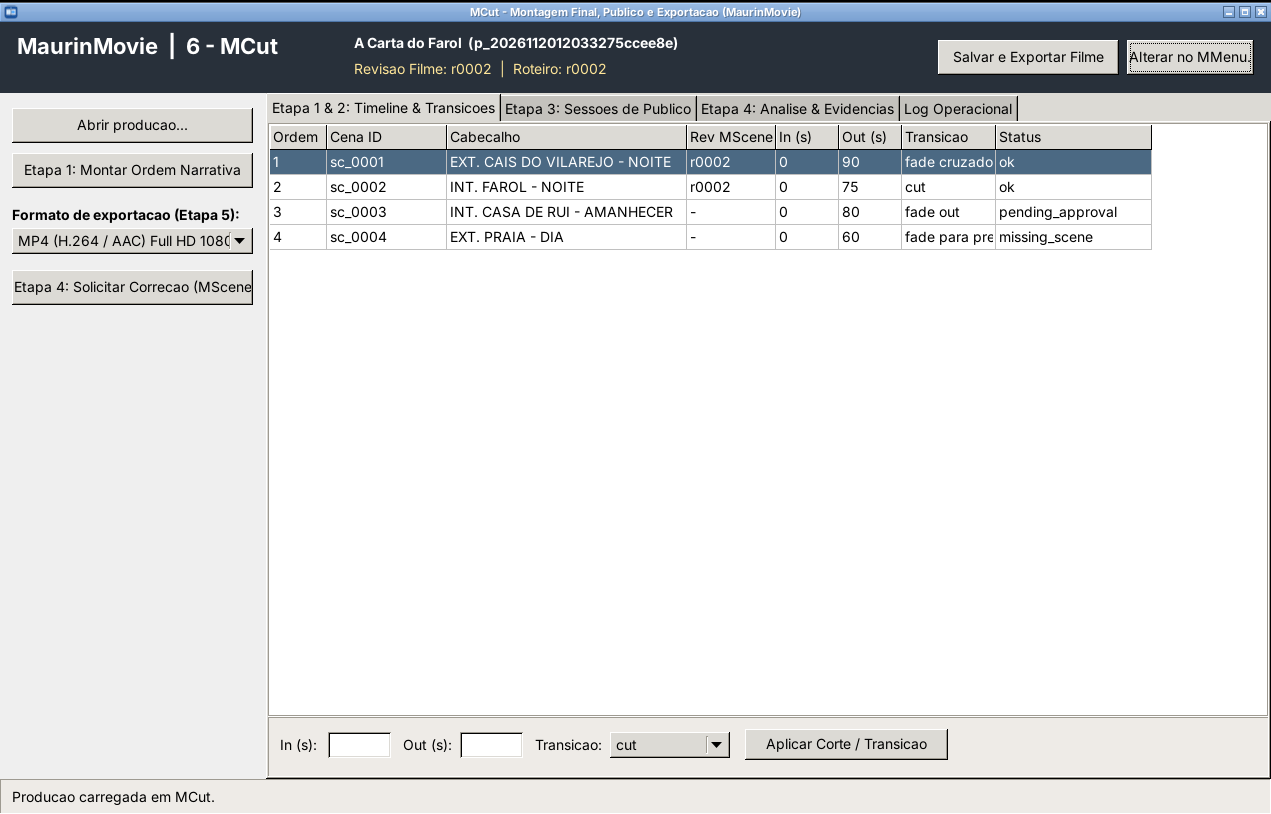
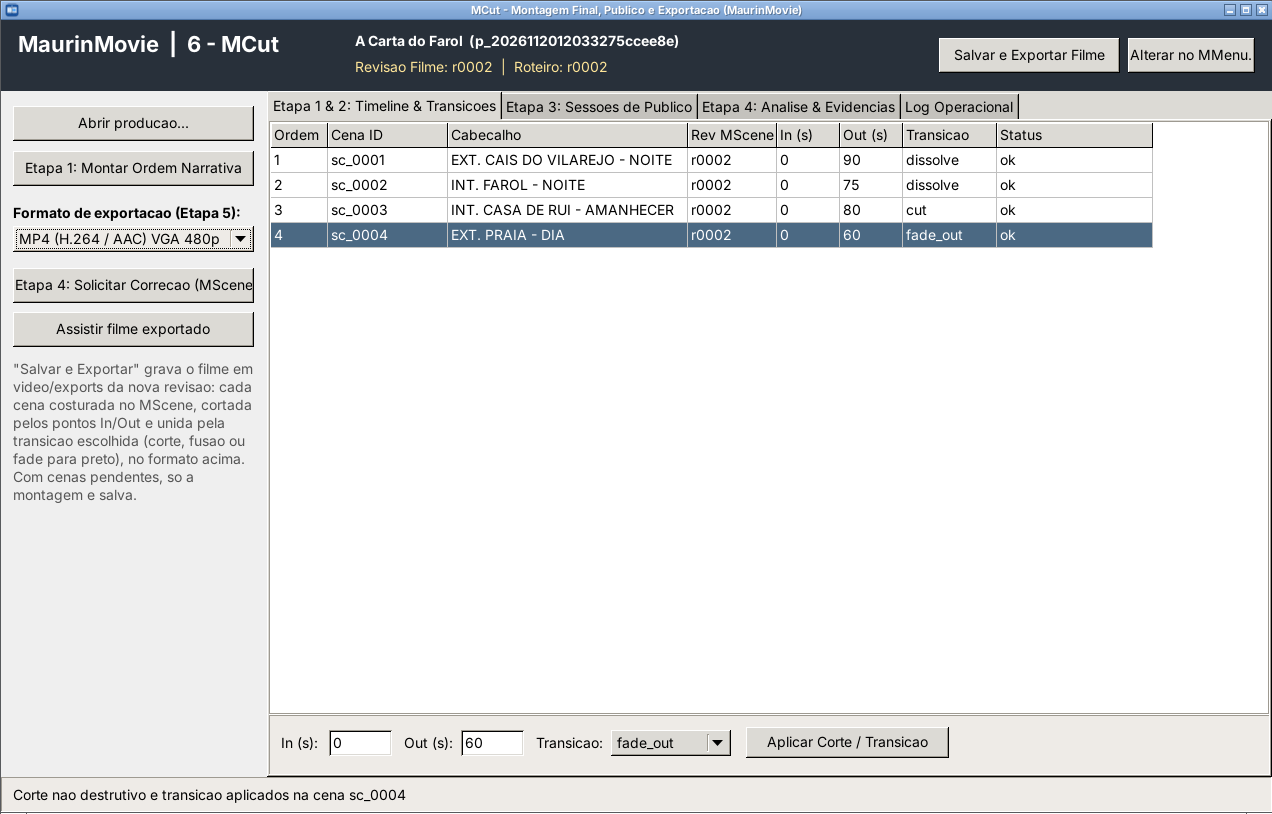
Documentacao, testes e instalador para video e cascata
- Manuais do MMenu, MVisual, MBoard, MScene e MCut com as novas telas
  (video por segmento, costura, filme gravado, cascata e retomada)
- MMenu: Retomar transacao mostra o ultimo erro registrado e atualiza a
  tela sem repetir o alerta de integridade; botoes da barra cabem na aba
- 99-lacunas: C-15 resolvida; L-11 e L-14 atualizadas
- build_release.ps1 compila e executa tests/common/test_mmp_media.pas;
  install/README explica a dependencia do ffmpeg

Claude-Session: https://claude.ai/code/session_017tPzUg1j1urr1UyVyBUqfv

Changed region(s): [[0.0, 0.0, 1.0, 0.6143], [0.0, 0.8907, 1.0, 1.0], [0.0, 0.0921, 0.0307, 0.1229]]

diff --git a/docs/specs/99-lacunas.md b/docs/specs/99-lacunas.md
@@ -16,10 +16,10 @@ Legenda de impacto: **Alto** = bloqueia ou muda a arquitetura; **Médio** = afet
 | L-08 | Alto | docs/05 limita a cascata a MScript → MVisual → MBoard, mas docs/11 §6 descreve o grafo inteiro até o MCut | Nesta versão a cascata automática vai até o MBoard; MSound, MScene e MCut recebem **aviso de desatualização** (pendência no MMenu, `scene.sources_changed` no MScene) sem regeneração automática de áudio/vídeo (custo) | Se áudio e vídeo devem ser regenerados automaticamente |
 | L-09 | Alto | Motores de IA não escolhidos; API real da biblioteca CHATGPT não verificada | Interfaces de adaptador em `mmpai.pas` + provedor simulado obrigatório + adaptador HTTP "compatível com OpenAI" para texto ([00-comum §9](00-comum.md#9-provedores-de-ia)) | Provedores reais de texto, imagem, voz, efeitos e vídeo; o que a biblioteca CHATGPT já oferece |
 | L-10 | Médio | docs/06: IA B só sintetiza voz; não diz quem gera **efeitos sonoros** | Provedor `sfx` separado (aba IA Som — Efeitos no MMenu) e pasta de banco de efeitos licenciados | Origem dos efeitos: gerados por IA, banco licenciado, ou ambos |
-| L-11 | Alto | Nenhum app produz o **áudio final** do filme: MSound faz só prévias, MScene usa áudio-guia, MCut "renderiza com som". Trilha musical não aparece em nenhum documento | MScene usa o áudio do vídeo gerado ou o áudio-guia; MCut só faz crossfade entre cenas | Se haverá etapa de mixagem final e música (novo app ou etapa no MCut/MSound) |
+| L-11 | Alto | Nenhum app produz o **áudio final** do filme: MSound faz só prévias, MScene usa áudio-guia, MCut "renderiza com som". Trilha musical não aparece em nenhum documento | MScene monta o áudio de cada segmento (falas sintetizadas ou amostras do MSound + ambiência do local); MCut leva esse áudio ao filme com crossfade nas fusões e fade no fim | Se haverá etapa de mixagem final e música (novo app ou etapa no MCut/MSound) |
 | L-12 | Médio | Sessões de público com "convite" e "controle de acesso" sugerem participação remota, mas os apps são desktop | Modo exibição local no MCut (participante assiste e avalia na máquina do operador) | Necessidade de participação remota (web/formulário externo) |
 | L-13 | Médio | Política de privacidade e retenção dos dados dos avaliadores (LGPD) a definir (docs/08) | Dados pessoais em arquivo separado, fora das exportações por padrão; anonimato configurável | Prazo de retenção, termo de consentimento, quem acessa |
-| L-14 | Médio | Mecanismo de reprodução, timeline e render não definido | `ffmpeg`/`ffprobe` externos + `mpv` embutido (`--wid`) | Licenças (ffmpeg LGPL/GPL), empacotamento no instalador; alternativa PasLibVlc |
+| L-14 | Médio | Mecanismo de reprodução, timeline e render não definido | Implementado com `ffmpeg`/`ffprobe` externos (`src/common/ummpmedia.pas`): animática e costura no MScene, gravação do filme no MCut. Reprodução no `mpv` configurado ou no programa padrão, ainda fora da janela | Licenças (ffmpeg LGPL/GPL) e se o instalador deve incluir o ffmpeg; `mpv` embutido (`--wid`) ou PasLibVlc |
 | L-15 | Baixo | SHA-256 exigido (docs/11), mas não há garantia de unidade na FPC 3.2.2 instalada | Verificar `fpsha256`/fcl-hash; senão HashLib4Pascal ou DCPcrypt | Biblioteca escolhida |
 | L-16 | Médio | Sistemas operacionais, CPU, GPU, RAM, processamento local × remoto (docs/10) | Linux e Windows; IA via adaptadores (local ou remota) | Requisitos mínimos |
 | L-17 | Médio | Conflitos de edição simultânea (docs/04 "Pendências adicionais") | Lock por projeto `.lock` + leitura livre de revisões publicadas ([00-comum §7.4](00-comum.md#74-lock-de-projeto)) | Uso multiusuário em rede |
@@ -51,7 +51,7 @@ Legenda de impacto: **Alto** = bloqueia ou muda a arquitetura; **Médio** = afet
 | C-12 | MScript | `character_id` mudava a cada extração e objetos entravam no mapa de personagens (o MSound criava voz para objetos) | Resolvida |
 | C-13 | MScript headless | Evento sem `event_id` era dado como "já aplicado"; campo `dialogue` não casava com `dialogue_text`; `replace_entity` e eventos sem operações publicavam revisão sem mudança; fonte desatualizada não era verificada | Resolvida |
 | C-14 | MVisual, MBoard, MSound | "Publicar" gravava `approved` mesmo com itens não aprovados | Resolvida: `published` até todos serem aprovados |
-| C-15 | Cascata | Nenhum programa processava os eventos; o evento do MBoard não tinha operações | Parcial: o MBoard gera `script.patch` e executa o MScript headless; estágios MVisual/MBoard continuam manuais |
+| C-15 | Cascata | Nenhum programa processava os eventos; o evento do MBoard não tinha operações | Resolvida (20/11/2026): a cascata do MBoard roda MScript → MVisual (headless, `source.update`) → MBoard até `complete`; `mboard --headless --resume-transaction` e o botão Retomar do MMenu continuam do estágio parado; o MScene atende os pedidos de correção do MCut ao salvar a cena. MSound e o MScene em cascata automática seguem fora (L-08) |
 | C-17 | Telas montadas em código | Controles ancorados à direita/abaixo saíam da janela (botões do cabeçalho e das abas invisíveis no GTK2) e o `&` das abas virava atalho ("Sinopse _IA") | Resolvida: `MmpPrepareAligned`/`MmpPrepareTabSheet` e `&&` nos títulos |
 | C-16 | Executáveis LCL no Linux | GTK2 exige display até em `--version`/`--headless` | Aberta: usar `xvfb-run` ou separar um executável sem LCL para o modo headless |
 

diff --git a/docs/manual/05-mscene.md b/docs/manual/05-mscene.md
@@ -10,22 +10,37 @@ Gera o vídeo de **uma cena por vez**, a partir do storyboard e dos bancos visua
 
 | Elemento | Uso |
 |---|---|
-| **Cena ativa (uma por vez)** | Escolhe a cena do roteiro. Cada cena tem projeto próprio em `projects/05-mscene/scenes/<scene_id>/`, criado na primeira abertura |
-| **Etapa 1: Gerar Sub-blocos da Cena** | Gera a descrição de cada segmento definido no MBoard e uma prévia da cena (vídeo pela IA de vídeo ou FFmpeg, quando disponível). Só a cena selecionada é processada |
-| **Etapa 2a: Aprovar Sub-bloco** | Aprova o segmento selecionado |
-| **Etapa 2b: Costurar Cena Única** | Registra a ordem dos segmentos aprovados como a cena montada |
-| **Etapa 3: Ligação entre cenas** | **Aprovar Ligação Anterior** e **Validar Ligação Próxima**. Se a próxima cena ainda não existir, a ligação fica **pendente**, nunca aprovada por suposição |
+| **Cena ativa (uma por vez)** | Escolhe a cena do roteiro. Cada cena tem projeto próprio em `projects/05-mscene/scenes/<scene_id>/`, criado na primeira abertura. Ao voltar a uma cena, os vídeos, aprovações e a cena costurada já salvos (no rascunho ou na revisão ativa) são retomados |
+| **Etapa 1: Gerar Sub-blocos da Cena** | Gera o vídeo de cada segmento definido no MBoard (detalhes abaixo). Só a cena selecionada é processada |
+| **Etapa 2a: Aprovar** · **Assistir** | Aprova o segmento selecionado; **Assistir** (ou duplo clique na grade) abre o vídeo do segmento no reprodutor |
+| **Etapa 2b: Costurar** · **Assistir** | Junta os vídeos dos segmentos, na ordem, em `video/assembled/<cena>.mp4` e mostra um quadro da cena. Se algum segmento não estiver aprovado, pede confirmação |
+| **Etapa 3: Ligação entre cenas** | **Aprovar Anterior** e **Validar Próxima**; **Ver** monta os últimos 4 s de uma cena e os primeiros 4 s da outra num vídeo curto (`video/previews/`) para conferir a passagem. Se a próxima cena ainda não existir, a ligação fica **pendente**, nunca aprovada por suposição |
+| Pedidos de correção do MCut | Quando o MCut pede correção de uma cena, o pedido aparece em laranja no painel. **Salvar Cena** dessa cena registra o atendimento: o evento vai para `shared/events/archive` e a transação fica concluída |
+
+![Pedido de correção](imagens/mscene-pedido-correcao.png)
+
+## Como o vídeo de cada segmento é feito
+
+1. **Falas:** cada linha `Nome: fala` do segmento vira áudio. Com um provedor de voz real configurado no MMenu, a fala é sintetizada; sem ele, entra a amostra de voz do personagem gravada no MSound, como voz-guia.
+2. **Ambiência:** o efeito do MSound ligado à cena (pela linha do tempo do MSound ou pelo local da cena no índice do MVisual), em volume baixo e repetido até o fim.
+3. **Áudio do segmento:** falas em sequência, com pausas curtas, sobre a ambiência. A duração é a do MBoard ou, se as falas forem mais longas, a das falas.
+4. **Imagem:**
+   - com uma IA de vídeo real configurada, o vídeo é pedido a ela (a partir do quadro de abertura) e recebe o áudio do segmento; se a IA falhar, entra a animática;
+   - sem IA de vídeo, uma **animática**: quadro de abertura com aproximação lenta, fusão no meio e quadro de fechamento com afastamento lento.
+5. O vídeo vai para `video/segments/<cena>_<segmento>.mp4` (H.264/AAC, 1280×720, 25 quadros/s) e os dados (origem, falas, fontes, duração real) para o `.json` ao lado. A coluna **Origem** mostra "IA de vídeo" ou "Animática local".
+
+É preciso ter o **ffmpeg** (e o ffprobe) instalado: o caminho vem de MMenu → Configurações → Ferramentas ou do PATH. Sem ele, a Etapa 1 avisa e não gera nada.
 
 ## Aba Sub-blocos & Montagem da Cena
 
 ![Sub-blocos](imagens/mscene-sub-blocos.png)
 
-Segmentos da cena (ID, ordem, duração, estado, prompt e arquivo) e a prévia gerada.
+Segmentos da cena (ID, ordem, duração, estado, prompt, arquivo de vídeo e origem) e um quadro do vídeo selecionado ou da cena costurada.
 
 ## Cabeçalho
 
-Fontes 1 a 4 (revisões ativas de MScript, MVisual, MBoard e MSound). **Salvar Cena** publica a revisão do projeto da cena com os segmentos e a cena montada; o estado registra a ligação (`finalizada` ou `ligacao_posterior_pendente`). Arquivos gerados antes de salvar ficam em `scenes/<scene_id>/work/draft/`.
+Fontes 1 a 4 (revisões ativas de MScript, MVisual, MBoard e MSound). **Salvar Cena** publica a revisão do projeto da cena com os vídeos dos segmentos (`video.segment`) e a cena costurada (`video.scene`), em `video/mp4`, mais os `.json` de cada um; o estado registra a ligação (`finalizada` ou `ligacao_posterior_pendente`). Arquivos gerados antes de salvar ficam em `scenes/<scene_id>/work/draft/`.
 
 ## Ainda não implementado
 
-Geração real de vídeo por segmento com quadros, referências e áudio-guia; costura com ffmpeg; reprodução anterior → atual → próxima; regras de sequência (só a próxima cena não aprovada) e retomada por segmento.
+Reprodução embutida na janela (hoje o vídeo abre no reprodutor configurado — mpv — ou no programa padrão), regras de sequência (só a próxima cena não aprovada), regeneração de um único segmento e uso de referências visuais do MVisual pela IA de vídeo.

diff --git a/docs/manual/06-mcut.md b/docs/manual/06-mcut.md
@@ -2,7 +2,7 @@
 
 Executável: `mcut` / `mcut.exe` · código: [src/mcut](../../src/mcut) · requisitos: [docs/08-montagem-final.md](../08-montagem-final.md) · especificação: [docs/specs/07-mcut.md](../specs/07-mcut.md)
 
-Monta o filme na ordem narrativa do roteiro com as cenas do MScene, ajusta cortes e transições, registra avaliações de público por cena, consolida a análise e salva o pacote de exportação.
+Monta o filme na ordem narrativa do roteiro com as cenas do MScene, ajusta cortes e transições, registra avaliações de público por cena, consolida a análise e **grava o filme**.
 
 ## Aba Etapa 1 & 2: Timeline & Transições
 
@@ -10,10 +10,11 @@ Monta o filme na ordem narrativa do roteiro com as cenas do MScene, ajusta corte
 
 | Elemento | Uso |
 |---|---|
-| **Etapa 1: Montar Ordem Narrativa** | Cria a timeline na ordem das cenas do roteiro, apontando cada uma para a revisão do seu projeto no MScene. Cena sem projeto aparece como `missing_scene`; cena ainda não finalizada, como `pending_approval` — nunca substituída em silêncio |
+| **Etapa 1: Montar Ordem Narrativa** | Cria a timeline na ordem das cenas do roteiro, apontando cada uma para a revisão ativa do seu projeto no MScene e para o vídeo costurado dela; o **Out** inicial é a duração real desse vídeo. Cena sem projeto aparece como `missing_scene`; cena ainda não finalizada, como `pending_approval`; cena finalizada sem vídeo costurado, como `missing_video` — nunca substituída em silêncio |
 | Grade | Ordem, cena, cabeçalho, revisão no MScene, in/out, transição e estado |
-| In (s), Out (s), Transição + **Aplicar Corte / Transição** | Cortes e transições (corte seco, fades...) como dados da montagem; os vídeos de origem não são alterados |
-| Formato de exportação (Etapa 5) | Contêiner, codec e resolução do pacote de exportação |
+| In (s), Out (s), Transição + **Aplicar Corte / Transição** | Trecho de cada cena que entra no filme e a transição para a cena seguinte: `cut` (corte seco), `dissolve` (fusão) ou `fade_out` (fade para preto; na última cena, fade no fim do filme). Os vídeos de origem não são alterados |
+| Formato de exportação (Etapa 5) | MP4 (H.264/AAC) de 480p a 4320p, ou MKV sem perdas (FFV1/FLAC) para matriz |
+| **Assistir filme exportado** | Abre o filme da revisão atual no reprodutor configurado |
 | **Etapa 4: Solicitar Correção (MScene)** | Registra um pedido de correção (evento e transação) para o projeto da cena selecionada no MScene, acompanhado em Sincronizações no MMenu |
 
 ## Aba Etapa 3: Sessões de Público
@@ -30,8 +31,16 @@ Média e número de respostas por cena, comentários (sempre ligados à revisão
 
 ## Cabeçalho
 
-**Salvar e Exportar Filme** publica a revisão com `timeline/timeline.json`, `feedback/ratings.json`, `analysis/report.json` e `video/exports/export_report.json`. As fontes do manifesto incluem o MScript e cada projeto de cena do MScene. Com cenas pendentes, o estado fica `pending_scenes_missing` e o programa avisa que a exportação **não** foi concluída.
+**Salvar e Exportar Filme** grava o filme e publica a revisão com `timeline/timeline.json`, `feedback/ratings.json`, `analysis/report.json`, `video/exports/export_report.json` e o filme `video/exports/filme_<revisão>.mp4` (ou `.mkv`), registrado como `video.film`. O relatório traz arquivo, duração, tamanho, SHA-256, resolução e os cortes usados. As fontes do manifesto incluem o MScript e cada projeto de cena do MScene.
+
+![Filme gravado](imagens/mcut-filme-gravado.png)
+
+No exemplo, as quatro cenas (90 + 75 + 80 + 60 s) com duas fusões de 1 s resultam em 303 s. Quadros do filme, um a cada 12 s:
+
+![Quadros do filme](imagens/mcut-filme-quadros.png)
+
+Com cenas pendentes, o filme não é gravado: o estado fica `pending_scenes_missing` e o programa avisa. Se o ffmpeg faltar ou falhar, a montagem é salva com estado `export_failed` e o erro no relatório. A gravação usa o ffmpeg configurado no MMenu (ou o do PATH); em 1080p ou mais pode levar alguns minutos.
 
 ## Ainda não implementado
 
-Player do filme com timecode, cortes dentro da cena, prévia de transições, sessões com cadastro de participantes e consentimento, reavaliação de fragmento, ciclo de correção rastreado e renderização real do filme.
+Player embutido com timecode, cortes dentro da cena (mais de um trecho por cena), prévia de transição antes de gravar, trilha musical e mixagem final, sessões com cadastro de participantes e consentimento e reavaliação de fragmento.

diff --git a/docs/manual/03-mboard.md b/docs/manual/03-mboard.md
@@ -25,12 +25,23 @@ Transforma as cenas do roteiro e as referências visuais em storyboards com quad
 ## Cabeçalho
 
 - **Publicar Revisão:** `approved` se todas as cenas estiverem aprovadas, senão `published`.
-- **Aprovar e Cascata:** compara os storyboards `edited` com o roteiro de origem e monta as operações (`replace_text` de ação e falas, `set_duration`). Depois registra o evento e a transação e executa o MScript sem janela, que publica a nova revisão do roteiro. Os estágios MVisual e MBoard ficam pendentes na transação, acompanhada no MMenu (aba Sincronizações). Se o MScript estiver aberto, a alteração for ambígua ou a fonte estiver desatualizada, a transação fica `failed` com o motivo.
+- **Aprovar e Cascata:** compara os storyboards `edited` com o roteiro de origem e monta as operações (`replace_text` de ação e falas, `set_duration`). Depois registra o evento e a transação e executa os três estágios em ordem, sem abrir outras janelas:
+  1. **MScript** aplica o patch e publica a nova revisão do roteiro;
+  2. **MVisual** recebe um evento `source.update`, reindexa as entidades a partir do roteiro novo e publica;
+  3. **MBoard** publica o storyboard apontando para as novas revisões do roteiro e da biblioteca visual.
+
+  A transação é acompanhada no MMenu (aba Sincronizações).
+
+![Cascata concluída](imagens/mboard-cascata.png)
+
+Se um estágio falhar (programa aberto, alteração ambígua, fonte desatualizada, rascunho não publicado no MVisual), a cascata para ali, a transação fica `failed` com o motivo e nada além do que já foi publicado muda. Os ajustes ficam guardados no rascunho; depois de corrigir a causa, use **Retomar transação** no MMenu, que continua do estágio que parou.
+
+![Cascata interrompida](imagens/mboard-cascata-falha.png)
 
 ## Arquivos
 
-Rascunho em `projects/03-mboard/work/draft/images/quadros/`; revisão em `revisions/rNNNN/storyboard/scenes.json` (`storyboard.segment`) e `images/quadros/*` (`storyboard.frame`), com as revisões do MScript e do MVisual como fontes.
+Rascunho em `projects/03-mboard/work/draft/` (`storyboard/scenes.json` com os ajustes ainda não publicados e `images/quadros/`); ao abrir, o MBoard retoma esse rascunho; revisão em `revisions/rNNNN/storyboard/scenes.json` (`storyboard.segment`) e `images/quadros/*` (`storyboard.frame`), com as revisões do MScript e do MVisual como fontes.
 
 ## Ainda não implementado
 
-Atualização automática dos estágios MVisual e MBoard da cascata, retomada de transação, "Atualizar fontes" ao abrir, substituição de quadro por arquivo e critérios de subdivisão por falas.
+Regenerar quadros das cenas afetadas pela cascata, "Atualizar fontes" ao abrir, substituição de quadro por arquivo e critérios de subdivisão por falas.

diff --git a/src/common/README.md b/src/common/README.md
@@ -9,7 +9,8 @@ Unidades usadas por todos os programas (todos os `.lpi` incluem `../common` no c
 | `mmpsettings.pas` (sem LCL) | configuração centralizada (gravada só pelo MMenu): máquina (`mmenu.ini`, `secrets.ini`, provedores de IA da máquina) e produção (`settings/*.json`), controle de acesso |
 | `ummpdb.pas` (sem LCL) | banco SQLite da produção (`maurinmovie.db`, criado a partir de `maurinmovie_empty.db`), pastas `media/`, log centralizado |
 | `ummpprotocol.pas` (sem LCL) | criação e leitura de produções, auditoria de integridade (hashes, fontes, arquivos movidos, revinculações de `catalog.json`), catálogo, locks, log JSON Lines, estado das etapas e histórico |
-| `ummpappbase.pas` | publicação de revisões, eventos e transações de cascata, execução headless de outro aplicativo, rascunho `work/draft/`, validação do lançamento pelo MMenu e instância única |
+| `ummpappbase.pas` | publicação de revisões, eventos e transações de cascata (`EmitSyncEventEx`, `MmpEmitStageEvent`, `MmpFinishEventFile`, `MmpListOpenInboxEvents`), execução headless de outro aplicativo (`MmpRunHeadlessEvent`, `MmpRunHeadlessResume`), rascunho `work/draft/`, abrir mídia no reprodutor, validação do lançamento pelo MMenu e instância única |
+| `ummpmedia.pas` (sem LCL) | vídeo e áudio com ffmpeg/ffprobe externos: áudio do segmento (falas + ambiência), animática com quadros, costura de cena, filme com cortes e transições, quadro de prévia |
 | `ummpaibridge.pas` | ponte com os provedores de IA (biblioteca CHATGPT) usando a configuração do MMenu |
 
 ## Regras importantes
@@ -17,4 +18,4 @@ Unidades usadas por todos os programas (todos os `.lpi` incluem `../common` no c
 - `PublishProjectRevision` grava o manifesto e atualiza `project.json` e o SQLite com os mesmos `artifact_id`.
 - `EmitSyncEventEx` grava o evento completo (envelope de docs/11 §4) e a transação; `MmpUpdateTransactionStage` só marca a transação como `complete` quando todos os estágios completam.
 
-Testes: [tests/test_mmp_protocol.pas](../../tests/test_mmp_protocol.pas).
+Testes: [tests/test_mmp_protocol.pas](../../tests/test_mmp_protocol.pas) e [tests/common/test_mmp_media.pas](../../tests/common/test_mmp_media.pas) (precisa do ffmpeg no PATH; sem ele, é pulado).

diff --git a/docs/manual/00-mmenu.md b/docs/manual/00-mmenu.md
@@ -41,8 +41,8 @@ Lista os projetos dos sete programas (e os projetos por cena do MScene) com revi
 
 ![Sincronizações](imagens/mmenu-sincronizacoes.png)
 
-- **Transações e eventos de cascata** (`shared/transactions`, `shared/events`): origem, destino, etapa atual, estado e erro. No exemplo, `tx_demo_0001` já passou pelo MScript e espera o MVisual; `tx_demo_0002` falhou no MScript por alteração ambígua (código 7).
-- **Ir para aplicativo responsável** abre o programa da etapa; **Cancelar transação** marca como `cancelled` (com confirmação) sem apagar revisões publicadas.
+- **Transações e eventos de cascata** (`shared/transactions`, `shared/events`): origem, destino, etapa atual, estado e erro. No exemplo, `tx_demo_0001` esperava o MVisual e foi concluída com **Retomar transação**; `tx_demo_0002` falhou no MScript por alteração ambígua (código 7) e, como o evento dela não está mais na caixa do MScript, a retomada mostra esse motivo.
+- **Ir para aplicativo responsável** abre o programa da etapa; **Cancelar transação** marca como `cancelled` (com confirmação) sem apagar revisões publicadas; **Retomar transação** continua uma cascata do MBoard parada ou interrompida (executa `mboard --headless --resume-transaction <tx>`) a partir do estágio pendente e mostra o resultado ou o último erro registrado. Pedidos do MCut para o MScene são atendidos ao salvar a cena no MScene.
 - **Links ausentes e divergências:** arquivos não encontrados, movidos (localizados por ID ou hash) e com SHA-256 divergente. **Auditar SHA-256 agora** refaz a verificação completa; **Revincular item...** aceita o novo arquivo somente se o hash for igual ao registrado e grava em `catalog.json` (`relinks[]`), sem tocar no manifesto.
 
 ## Artefatos & Catálogo
@@ -90,4 +90,4 @@ mmenu [--production <pasta>] [--settings [--tab <aba>]] [--check-integrity --pro
 
 ## Ainda não implementado
 
-Retomada automática de transação (`--resume-transaction`), monitoramento por varredura a cada 5 s e exportação do relatório de integridade em arquivo.
+Retomada de cascatas iniciadas por outros programas além do MBoard, monitoramento por varredura a cada 5 s e exportação do relatório de integridade em arquivo.

diff --git a/src/mboard/README.md b/src/mboard/README.md
@@ -6,7 +6,7 @@ Especificação funcional: [docs/05-storyboard.md](../../docs/05-storyboard.md) 
 
 ## Arquivos
 - `mboard.lpi` — projeto Lazarus do executável (não é o projeto do filme).
-- `mboard.lpr` — programa principal (valida o contexto do MMenu, instância única e, no MScript, o modo headless).
+- `mboard.lpr` — programa principal (valida o contexto do MMenu, instância única e, no MScript, MVisual e MBoard, o modo headless).
 - `umboardmain.pas` — formulário principal montado em código.
 - `mboard_icon.rc` / `mboard_icon.res` / `mboard.ico` — ícone do executável.
 
@@ -24,7 +24,8 @@ Primeira versão funcional:
 - Etapa 1: gera quadro inicial e final por cena a partir das revisões ativas do MScript e do MVisual (imagem pela IA quando configurada, senão quadro provisório).
 - Etapa 2: subdivide uma cena em N segmentos com continuidade exata (o quadro final do segmento *i* é o mesmo `asset_id` do inicial do segmento *i+1*) e soma de durações igual à da cena.
 - Ajustes editoriais em rascunho e aprovação por cena; a revisão só é `approved` com todas as cenas aprovadas.
-- "Aprovar e Cascata": monta operações `script.patch` comparando os quadros editados com o roteiro, registra evento e transação e executa o MScript em modo headless (estágio 1). Os estágios MVisual e MBoard ficam registrados como pendentes e a transação só fica `complete` quando todos publicarem.
+- "Aprovar e Cascata": monta operações `script.patch` comparando os quadros editados com o roteiro, registra evento e transação e executa os estágios em ordem: MScript headless (patch), MVisual headless (`source.update`, reindexação) e o próprio MBoard (publica com as novas fontes e `change_event_id` = evento raiz). Para no primeiro estágio que falhar.
+- Ajustes ficam em `work/draft/storyboard/scenes.json`; `mboard --headless --resume-transaction <tx>` (botão Retomar no MMenu) continua do estágio pendente.
 - Quadros novos ficam no rascunho `work/draft/` até a publicação.
 
-Pendente: atualização automática dos estágios MVisual/MBoard da cascata, retomada (`--resume-transaction`) e "Atualizar fontes".
+Pendente: regenerar quadros das cenas afetadas e "Atualizar fontes" ao abrir.

diff --git a/src/mcut/README.md b/src/mcut/README.md
@@ -6,7 +6,7 @@ Especificação funcional: [docs/08-montagem-final.md](../../docs/08-montagem-fi
 
 ## Arquivos
 - `mcut.lpi` — projeto Lazarus do executável (não é o projeto do filme).
-- `mcut.lpr` — programa principal (valida o contexto do MMenu, instância única e, no MScript, o modo headless).
+- `mcut.lpr` — programa principal (valida o contexto do MMenu, instância única e, no MScript, MVisual e MBoard, o modo headless).
 - `umcutmain.pas` — formulário principal montado em código.
 - `mcut_icon.rc` / `mcut_icon.res` / `mcut.ico` — ícone do executável.
 
@@ -23,6 +23,7 @@ Só pode ser iniciado pelo MMenu, que passa `--launcher mmenu --mmenu-version <v
 Primeira versão funcional:
 - Monta a timeline na ordem narrativa do roteiro, apontando cada cena para a revisão do projeto da cena no MScene; cena ausente aparece como pendência explícita.
 - Cortes (in/out) e transições como dados da montagem, avaliações por cena e análise consolidada.
-- "Salvar e Exportar" publica a revisão com timeline, avaliações, análise e relatório de exportação; com cenas pendentes, o estado é `pending_scenes_missing` (nunca anunciado como exportação concluída). As fontes do manifesto incluem o MScript e cada projeto de cena do MScene.
+- "Salvar e Exportar" grava o filme com ffmpeg (`video/exports/filme_<rev>.mp4` ou `.mkv` sem perdas: trechos In/Out, corte, fusão ou fade para preto, resolução do formato) e publica a revisão com timeline, avaliações, análise, relatório (arquivo, duração, tamanho, SHA-256) e o artefato `video.film`. Com cenas pendentes, o estado é `pending_scenes_missing` e o filme não é gravado; falha do ffmpeg gera `export_failed`. As fontes do manifesto incluem o MScript e cada projeto de cena do MScene.
+- "Assistir filme exportado" abre o filme da revisão atual.
 
-Pendente: player, renderização real do filme e sessões de público com participantes.
+Pendente: player embutido, vários trechos por cena, trilha musical/mixagem e sessões de público com participantes.

diff --git a/src/mscene/README.md b/src/mscene/README.md
@@ -6,7 +6,7 @@ Especificação funcional: [docs/07-geracao-e-montagem-de-cenas.md](../../docs/0
 
 ## Arquivos
 - `mscene.lpi` — projeto Lazarus do executável (não é o projeto do filme).
-- `mscene.lpr` — programa principal (valida o contexto do MMenu, instância única e, no MScript, o modo headless).
+- `mscene.lpr` — programa principal (valida o contexto do MMenu, instância única e, no MScript, MVisual e MBoard, o modo headless).
 - `umscenemain.pas` — formulário principal montado em código.
 - `mscene_icon.rc` / `mscene_icon.res` / `mscene.ico` — ícone do executável.
 
@@ -22,7 +22,9 @@ Só pode ser iniciado pelo MMenu, que passa `--launcher mmenu --mmenu-version <v
 ## Situação
 Primeira versão funcional:
 - Uma cena por vez: cria o projeto da cena em `projects/05-mscene/scenes/<scene_id>/` e lista os segmentos do storyboard.
-- Gera as descrições dos sub-blocos e uma prévia (vídeo pela IA de vídeo/FFmpeg quando disponível), aprovação por sub-bloco, costura (registro da ordem) e marcação das ligações anterior/próxima (próxima inexistente fica pendente).
+- Gera o vídeo de cada sub-bloco (`video/segments/*.mp4`): IA de vídeo real quando configurada; senão animática com os quadros do MBoard, falas (voz sintetizada ou amostra do MSound) e ambiência do local (`ummpmedia`).
+- Aprovação por sub-bloco, costura com ffmpeg em `video/assembled/<cena>.mp4`, prévia da ligação com a cena anterior/próxima e botões Assistir (mpv ou programa padrão).
+- Lista os pedidos de correção do MCut (`shared/events/inbox/MScene`); salvar a cena atende o pedido (evento arquivado, transação concluída).
 - Arquivos novos ficam no rascunho do projeto da cena (`work/draft/`).
 
-Pendente: geração real de vídeo por segmento, costura com ffmpeg, reprodução anterior/atual/próxima e retomada por segmento.
+Pendente: reprodução embutida, regeneração de um único segmento e regras de sequência entre cenas.

diff --git a/install/README.md b/install/README.md
@@ -17,10 +17,13 @@ O script:
 1. Verifica/compila os pacotes `CHATGPT` (`openai_core.lpk`, `openai_image.lpk`, `openai_voice.lpk`, `openai_video.lpk`).
 2. Compila os 7 aplicativos em `bin\`: `mmenu.exe`, `mscript.exe`, `mvisual.exe`, `mboard.exe`, `msound.exe`, `mscene.exe`, `mcut.exe`.
 3. Copia `sqlite3.dll` Win64 e `templates\maurinmovie_empty.db` para `bin\` e `dist\app\`.
-4. Executa a suíte de testes `tests\test_mmp_protocol.pas`.
+4. Executa as suítes de testes `tests\test_mmp_protocol.pas` e `tests\common\test_mmp_media.pas` (esta usa o ffmpeg do PATH; sem ele, é pulada).
 5. Copia as DLLs OpenSSL Win64 (`libssl-1_1-x64.dll`, `libcrypto-1_1-x64.dll`, `libssl-3-x64.dll`, `libcrypto-3-x64.dll`, `legacy.dll`) para `bin\` e para o staging `dist\app\`.
 6. Gera as imagens do wizard (`prepare_images.ps1`), o manifesto (`build-manifest.json`) e compila `install\windows\maurinmovie.iss` com o `ISCC.exe`.
 7. Salva os instaladores e `SHA256SUMS` em `install\`.
+
+## ffmpeg (vídeo e áudio)
+O MScene (vídeo dos segmentos e costura das cenas) e o MCut (gravação do filme) usam o **ffmpeg** e o **ffprobe** externos; o reprodutor é o **mpv**, se configurado, ou o programa padrão do sistema. O instalador **não** inclui o ffmpeg (a licença da distribuição escolhida ainda está em aberto, docs/specs/99-lacunas L-14). Instale-o à parte e indique os caminhos em MMenu → Configurações → Ferramentas, ou deixe-o no PATH. Sem libx264, o vídeo sai em MPEG-4 Parte 2.
 
 ## Compilação no Linux (desenvolvimento)
 Não há instalador Linux; os executáveis podem ser gerados com `lazbuild`:

diff --git a/docs/manual/README.md b/docs/manual/README.md
@@ -43,7 +43,9 @@ O MMenu libera cada programa só quando as etapas anteriores têm atividade (no 
 
 **Configuração centralizada.** Provedores de IA (texto, imagem, voz, efeitos, vídeo), padrões de cada programa, executáveis e ferramentas são configurados **somente no MMenu**. Os demais programas apenas leem; o botão **Alterar no MMenu...** de cada um abre a configuração. As chaves de API ficam no cofre local (`secrets.ini`), nunca na pasta da produção.
 
-**Cascata.** Um ajuste editorial aprovado no MBoard vira um evento `script.patch` que o MScript aplica sem abrir a janela, criando nova revisão do roteiro. O MMenu acompanha a transação e nunca a mostra como concluída antes de todos os estágios publicarem.
+**Cascata.** Um ajuste editorial aprovado no MBoard vira um evento `script.patch` que o MScript aplica sem abrir a janela, criando nova revisão do roteiro; em seguida o MVisual (também sem janela) reindexa as entidades e o MBoard publica com as novas fontes. O MMenu acompanha a transação, nunca a mostra como concluída antes de todos os estágios publicarem e oferece **Retomar transação** quando um estágio parou. Pedidos de correção do MCut chegam ao MScene e são atendidos ao salvar a cena.
+
+**Vídeo e filme.** O MScene gera o vídeo de cada segmento (IA de vídeo, quando configurada, ou animática feita com os quadros do MBoard, as falas e a ambiência do MSound) e costura a cena; o MCut grava o filme com cortes e transições. Os dois usam o **ffmpeg**, que precisa estar instalado (MMenu → Configurações → Ferramentas ou PATH).
 
 ## Tela comum
 

diff --git a/src/mvisual/README.md b/src/mvisual/README.md
@@ -6,7 +6,7 @@ Especificação funcional: [docs/02-biblioteca-visual.md](../../docs/02-bibliote
 
 ## Arquivos
 - `mvisual.lpi` — projeto Lazarus do executável (não é o projeto do filme).
-- `mvisual.lpr` — programa principal (valida o contexto do MMenu, instância única e, no MScript, o modo headless).
+- `mvisual.lpr` — programa principal (valida o contexto do MMenu, instância única e, no MScript, MVisual e MBoard, o modo headless).
 - `umvisualmain.pas` — formulário principal montado em código.
 - `mvisual_icon.rc` / `mvisual_icon.res` / `mvisual.ico` — ícone do executável.
 
@@ -26,4 +26,6 @@ Primeira versão funcional:
 - Etapa 3: aprovar/rejeitar item (gravado no SQLite da produção), filtro de nitidez, publicação. A revisão só recebe `approved` quando todos os itens foram aprovados; caso contrário é publicada como `published`.
 - Imagens e o índice em edição ficam no rascunho `work/draft/`; a revisão publicada nunca é reescrita.
 
-Pendente: ambiguidades/correferências, variantes, comparação de versões, atualização incremental e modo headless `visual.update_from_script`.
+Modo headless: `mvisual --headless --event <arquivo>` (evento `source.update` da cascata) reindexa a partir da revisão ativa do roteiro e publica com `change_event_id`; recusa (código 7) se houver rascunho aberto.
+
+Pendente: ambiguidades/correferências, variantes, comparação de versões e geração automática das vistas de entidades novas.
